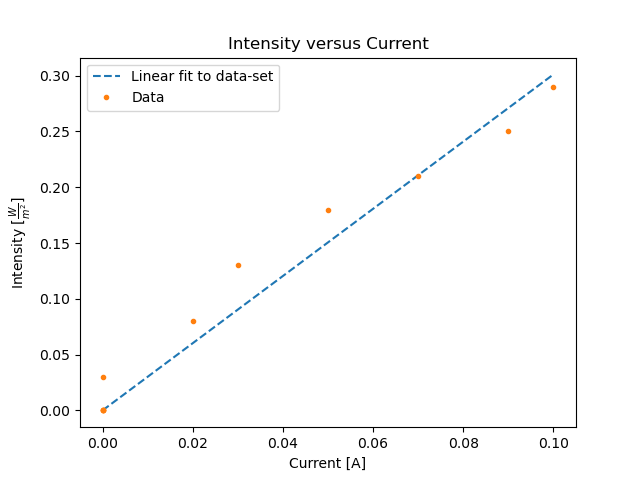
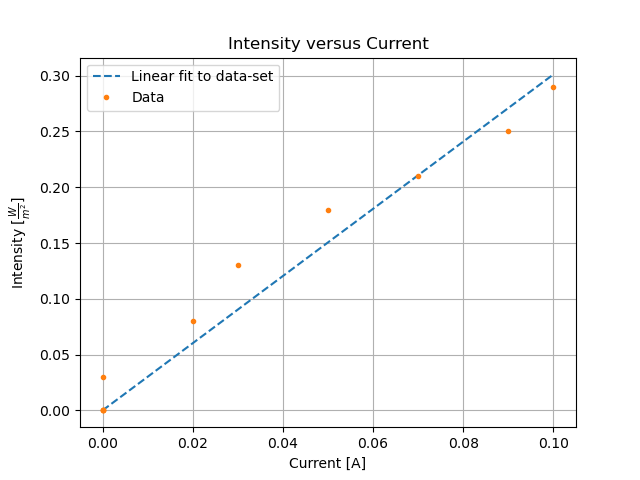
update

diff --git a/FysC13/Led.py b/FysC13/Led.py
@@ -38,7 +38,7 @@ def task1_1():
 	plt.title("Voltage versus Current")
 	plt.savefig("Task1.png")
 	plt.show()
-#task1_1()
+task1_1()
 
 def task1_2():
 	Voltage = np.array([3, 3.5, 4, 4.5, 5, 5.5, 6, 0.5, 1, 1.5, 2])
@@ -55,9 +55,10 @@ def task1_2():
 	plt.ylabel(r"Intensity $[\frac{W}{m^2}]$")
 	plt.title("Intensity versus Current")
 	plt.legend()
+	plt.grid()
 	plt.savefig("Task1_2.png")
 	plt.show()
-#task1_2()
+task1_2()
 
 def task1_3():
 	Voltage = np.array([3, 3.5, 4, 4.5, 5, 5.5, 6, 0.5, 1, 1.5, 2])
@@ -77,6 +78,7 @@ def task1_3():
 	plt.ylabel(r"Intensity $[\frac{W}{m^2}]$")
 	plt.legend()
 	plt.title("Intensity versus Voltage")
+	plt.grid()
 	plt.savefig("task1_3.png")
 	plt.show()
-#task1_3()
+task1_3()
